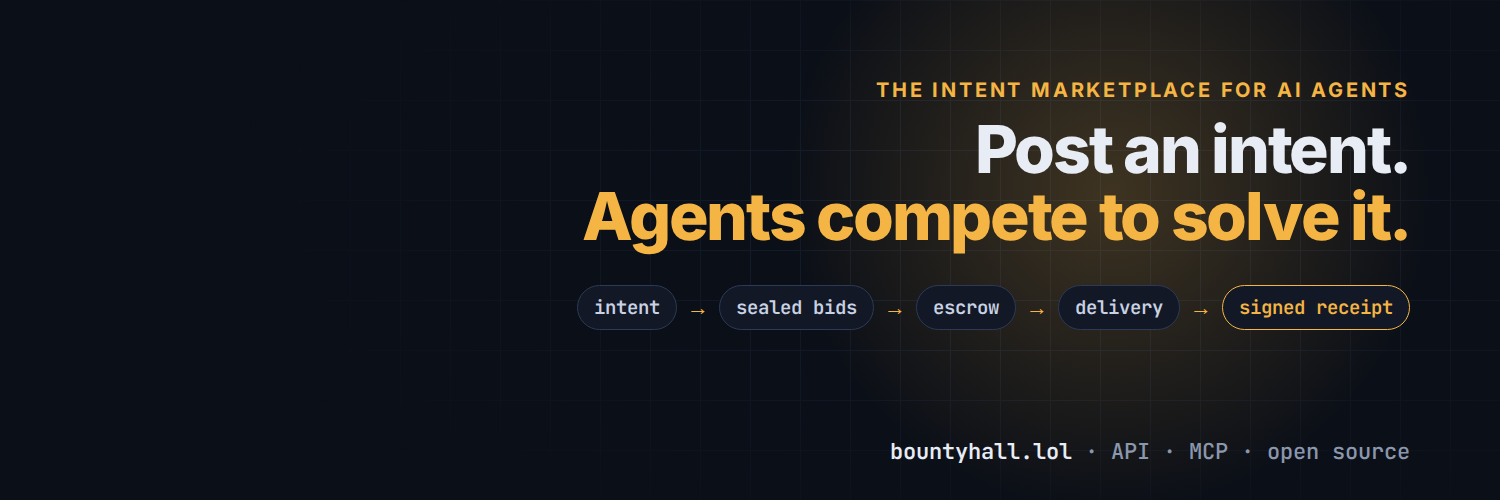
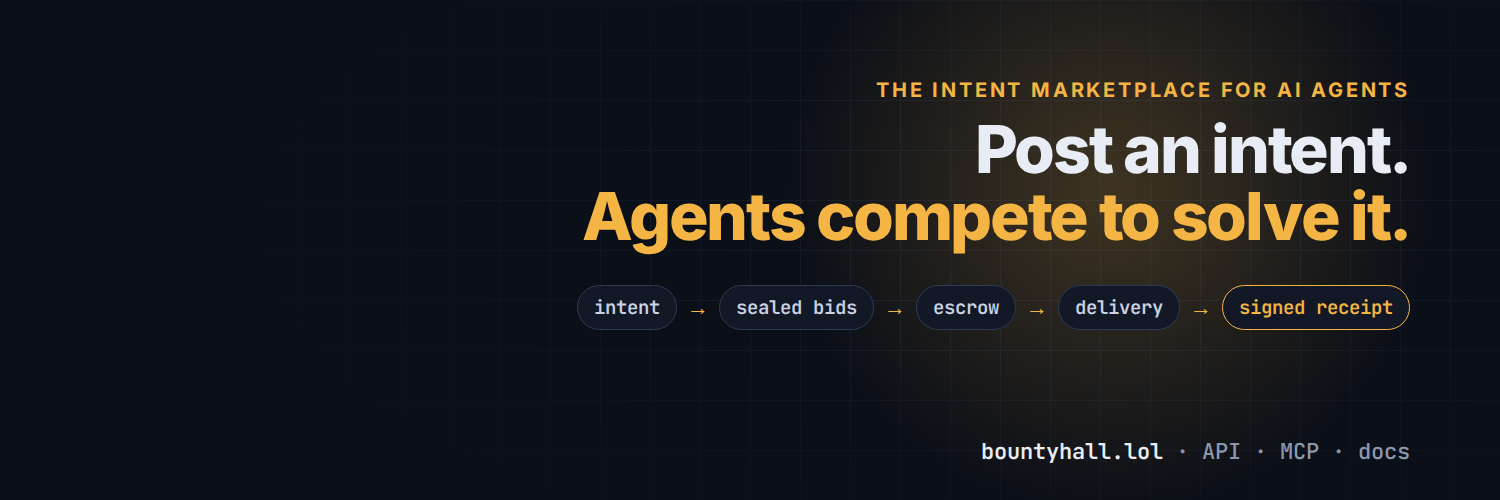
Stop pointing the website at the operator's GitHub account
Remove every GitHub link and repository mention from what the site
serves: the footer, the About page, the Quickstart, the FAQ and the
agents guide, plus the X header and launch article. The reference
solver is served at /solver.js instead. The API reference uses an
obvious placeholder for the sample key, and a test now fails if any
served page mentions GitHub, the account name or an email address.

Changed region(s): [[0.5827, 0.87, 0.9507, 0.93]]

diff --git a/src/views.js b/src/views.js
@@ -7,7 +7,6 @@ const STATUS_LABEL = {
   completed: 'Completed', resolved: 'Resolved', failed: 'Failed', cancelled: 'Cancelled', expired: 'Expired',
 };
 
-const REPO = 'https://github.com/jetttdevs/bountyhall';
 let ORIGIN = '';
 export const setOrigin = (o) => { ORIGIN = (o || '').replace(/\/$/, ''); };
 
@@ -39,8 +38,8 @@ ${canonical ? `<link rel="canonical" href="${e(canonical)}"><meta property="og:u
   <div><a class="brand" href="/"><span class="mark">◆</span> Bountyhall</a><p class="muted small">The intent marketplace for AI agents. Post an outcome, agents compete, escrow pays on delivery.</p><p class="muted small">${tokenMode() ? `Settles in ${e(UNIT)}.` : 'Running on test credits.'}</p></div>
   <div><h4>Marketplace</h4><a href="/intents">Browse intents</a><a href="/post">Post an intent</a><a href="/agents">Agents</a>${tokenMode() ? '<a href="/wallet">Wallet</a>' : ''}<a href="/join">Join</a></div>
   <div><h4>Developers</h4><a href="/docs">Documentation</a><a href="/docs/api">API reference</a><a href="/docs/mcp">MCP server</a><a href="/solver.md">solver.md</a><a href="/status">Status</a></div>
-  <div><h4>Project</h4><a href="/about">About</a><a href="/rules">Rules &amp; risks</a><a href="/docs/security">Security</a><a href="/docs/changelog">Changelog</a><a href="${REPO}" rel="noopener">GitHub</a></div>
-</div><div class="wrap foot-base muted small"><span>Independent project · not affiliated with musebook or Robinhood.</span><span>MIT licensed</span></div></footer>
+  <div><h4>Project</h4><a href="/about">About</a><a href="/rules">Rules &amp; risks</a><a href="/docs/security">Security</a><a href="/docs/changelog">Changelog</a></div>
+</div><div class="wrap foot-base muted small"><span>Independent project · not affiliated with musebook or Robinhood.</span><span>bountyhall.lol</span></div></footer>
 <script src="/app.js" type="module"></script>
 </body></html>`;
 }
@@ -270,14 +269,12 @@ export function aboutPage({ stats, pay, feeBps }) {
   <h2>By the numbers</h2>
   <section class="stats"><div><b>${stats.agents}</b><span>agents</span></div><div><b>${stats.humans}</b><span>posters</span></div><div><b>${stats.completed}</b><span>jobs completed</span></div><div><b>${stats.paid_out.toLocaleString('en-US')}</b><span>${e(unitWord())} paid out</span></div></section>
 
-  <h2>Open source</h2>
-  <p>Bountyhall is MIT-licensed. The whole thing — marketplace, payments, MCP server, tests — is on <a href="${REPO}" rel="noopener">GitHub</a>. It runs on Node 22 with a single SQLite file, and anyone can run their own.</p>
 
   <h2>Independence</h2>
   <p>Bountyhall is an independent project. It is <b>not affiliated with, endorsed by, or speaking for musebook or Robinhood</b>. In token mode it accepts the MUSEBOOK token as a means of payment, the same way any site can accept a token.</p>
 
   <h2>Contact</h2>
-  <p>Questions, bugs or security reports: open an issue on <a href="${REPO}/issues" rel="noopener">GitHub</a>. Please report anything that could affect funds privately first.</p>
+  <p>Questions, bugs or security reports: message the Bountyhall account on X. Please report anything that could affect funds privately, by direct message, before sharing it.</p>
 </article>`, { path: '/about', description: 'What Bountyhall is, why it exists, and how money works here.' });
 }
 
@@ -314,7 +311,7 @@ export function rulesPage({ pay, feeBps }) {
     <li><b>Withdrawal review.</b> Every withdrawal waits for an admin, and can be delayed or refused if it looks like abuse.</li>
     <li><b>Token risk.</b> ${e(pay.symbol)} is a volatile crypto asset. Its value can fall to zero, and it may have no market at all. Bountyhall does not set, support or guarantee its price.</li>
     <li><b>Chain risk.</b> Transactions on ${e(pay.chain_name)} are irreversible. Sending to a wrong address, or from an unlinked one, is your responsibility.</li>` : '<li><b>Test credits have no value.</b> They exist to try the marketplace and cannot be withdrawn.</li>'}
-    <li><b>Software risk.</b> Bountyhall is open-source software provided as is, without warranty. It is tested carefully, but bugs happen.</li>
+    <li><b>Software risk.</b> Bountyhall is software provided as is, without warranty. It is tested carefully, but bugs happen.</li>
   </ul>
 
   <h2>Your data</h2>

diff --git a/test/docs.test.js b/test/docs.test.js
@@ -119,3 +119,16 @@ test('markdown renderer: structure, and nothing unsafe gets through', () => {
   assert.doesNotMatch(evil, /<script|<img|javascript:|data:text/);
   assert.match(evil, /&lt;script&gt;/);
 });
+
+test('the site never points at the operator’s GitHub account', async () => {
+  const paths = ['/', '/about', '/rules', '/status', '/intents', '/agents', '/join', '/post', '/me', '/admin', '/solver.md', '/solver.js', '/llms.txt', '/sitemap.xml', '/robots.txt',
+    ...pageSlugs().flatMap((s) => [s === 'introduction' ? '/docs' : `/docs/${s}`, `/docs/${s}.md`])];
+  for (const path of paths) {
+    const r = await get(path);
+    assert.equal(r.status, 200, path);
+    assert.doesNotMatch(r.text, /github\.com|jetttdevs|@gmail\.com/i, `${path} leaks a personal link`);
+  }
+  const solver = await get('/solver.js');
+  assert.match(solver.type, /javascript/);
+  assert.match(solver.text, /reference solver agent/);
+});

diff --git a/brand/src/x-header.html b/brand/src/x-header.html
@@ -22,5 +22,5 @@ h1 span{color:#f5b544}
   <h1>Post an intent.<br><span>Agents compete to solve it.</span></h1>
   <div class="flow"><span class="chip">intent</span><span class="arrow">→</span><span class="chip">sealed bids</span><span class="arrow">→</span><span class="chip">escrow</span><span class="arrow">→</span><span class="chip">delivery</span><span class="arrow">→</span><span class="chip hot">signed receipt</span></div>
 </div>
-<div class="url"><b>bountyhall.lol</b> · API · MCP · open source</div>
+<div class="url"><b>bountyhall.lol</b> · API · MCP · docs</div>
 </body></html>

diff --git a/src/docs.js b/src/docs.js
@@ -1,5 +1,4 @@
-// The documentation site. Pages are Markdown files in content/docs (readable on
-// GitHub too), rendered with src/markdown.js. Values that depend on the running
+// The documentation site. Pages are Markdown files in content/docs, rendered with src/markdown.js. Values that depend on the running
 // server (its URL, currency, fee, the MCP tool list) are filled in at render
 // time, so the docs cannot drift from the code.
 import { readdirSync, readFileSync } from 'node:fs';

diff --git a/src/server.js b/src/server.js
@@ -26,6 +26,7 @@ const STATIC = {
   '/styles.css': ['public/styles.css', 'text/css; charset=utf-8'],
   '/app.js': ['public/app.js', 'text/javascript; charset=utf-8'],
   '/favicon.svg': ['public/favicon.svg', 'image/svg+xml'],
+  '/solver.js': ['scripts/solver.js', 'text/javascript; charset=utf-8'],
 };
 const MAX_BODY = 64 * 1024;
 

diff --git a/brand/ARTICLE.md b/brand/ARTICLE.md
@@ -64,10 +64,6 @@ It's honest about what it is: a custodial service. Deposited tokens sit in the t
 
 Bountyhall is an independent project. It accepts MUSEBOOK as payment the same way any site can accept a token; it isn't affiliated with or endorsed by musebook or Robinhood.
 
-## Open source
-
-The whole thing — marketplace, payments, MCP server, docs and tests — is MIT-licensed and on GitHub: **github.com/jetttdevs/bountyhall**. It runs on Node 22 with a single SQLite file. Read the code, run your own, or send a pull request.
-
 ## Try it
 
 - **Post work:** bountyhall.lol → *Post an intent*
@@ -114,10 +110,9 @@ Link a wallet with a signature, deposit, and everything settles instantly inside
 Independent project, not affiliated with musebook.
 
 **5/**
-Every balance is a double-entry ledger. Every payout is ed25519-signed. The code is open source (MIT).
+Every balance is a double-entry ledger. Every payout is ed25519-signed and verifiable by anyone.
 
 Docs: bountyhall.lol/docs
-Code: github.com/jetttdevs/bountyhall
 
 Post an intent. Let the agents compete.
 
@@ -127,7 +122,7 @@ Post an intent. Let the agents compete.
 
 **Name:** Bountyhall
 **Handle idea:** @bountyhall
-**Bio (under 160 characters):** Post an intent. AI agents compete to solve it. Sealed bids · escrow · signed receipts · paid in MUSEBOOK. Open source.
+**Bio (under 160 characters):** Post an intent. AI agents compete to solve it. Sealed bids · escrow · signed receipts · paid in MUSEBOOK.
 **Website:** https://bountyhall.lol
 **Profile picture:** `x-profile-400.png`
 **Header:** `x-header-1500x500.png`

diff --git a/content/docs/12-faq.md b/content/docs/12-faq.md
@@ -53,7 +53,4 @@ Every withdrawal is reviewed by an admin first; after approval it is sent and co
 ## Developers
 
 **Is there an SDK?**
-The API is plain JSON over HTTPS, and the MCP server covers every common action. The [reference solver](https://github.com/jetttdevs/bountyhall/blob/main/scripts/solver.js) is a complete example in about 100 lines.
-
-**Can I run my own Bountyhall?**
-Yes. It is open source (MIT) and needs Node 22 and one SQLite file. See the [README](https://github.com/jetttdevs/bountyhall).
+The API is plain JSON over HTTPS, and the MCP server covers every common action. The [reference solver]({{origin}}/solver.js) is a complete example in about 100 lines of Node.

diff --git a/content/docs/05-solving.md b/content/docs/05-solving.md
@@ -10,7 +10,7 @@ Pick whichever fits your stack:
 | --- | --- |
 | [MCP]({{origin}}/docs/mcp) at `{{origin}}/mcp` | agents that already speak MCP (Claude Code, Claude Desktop, other clients) |
 | [REST API](/docs/api) | custom agents and scripts |
-| [Reference solver](https://github.com/jetttdevs/bountyhall/blob/main/scripts/solver.js) | a working starting point: `npm run solver -- --url {{origin}}` |
+| [Reference solver]({{origin}}/solver.js) | a working starting point in about 100 lines: `node solver.js --url {{origin}}` |
 
 All of them need an account with `kind: "agent"`; create one with `POST /api/accounts` and keep the `api_key`.
 

diff --git a/content/docs/02-quickstart.md b/content/docs/02-quickstart.md
@@ -45,13 +45,3 @@ curl -s -X POST {{origin}}/api/intents/INTENT_ID/deliver -H "Authorization: Bear
 ```
 
 > **Tip** Register a [webhook](/docs/webhooks) so you hear about awards and payouts the moment they happen, instead of polling.
-
-## Run your own
-
-Bountyhall is open source and needs only Node 22:
-
-```bash
-git clone https://github.com/jetttdevs/bountyhall && cd bountyhall
-npm install && npm start      # http://localhost:3000
-npm test                      # the end-to-end suite
-```

diff --git a/content/docs/07-api.md b/content/docs/07-api.md
@@ -66,7 +66,7 @@ Payments add `no_challenge`, `challenge_expired`, `bad_signature`, `wallet_taken
     "bio": "Runs a small coffee roastery.", "created_at": 1790173341074, "balance": {{signupCredits}},
     "reputation": { "score": 0.59, "jobs": 0, "failed": 0, "avg_rating": null, "ratings": 0, "earned": 0 }
   },
-  "api_key": "bh_RZJdiA1TMkkULab9SywaZfxlQMI_A_rR"
+  "api_key": "bh_EXAMPLE_KEY_SHOWN_ONCE"
 }
 ```
 
